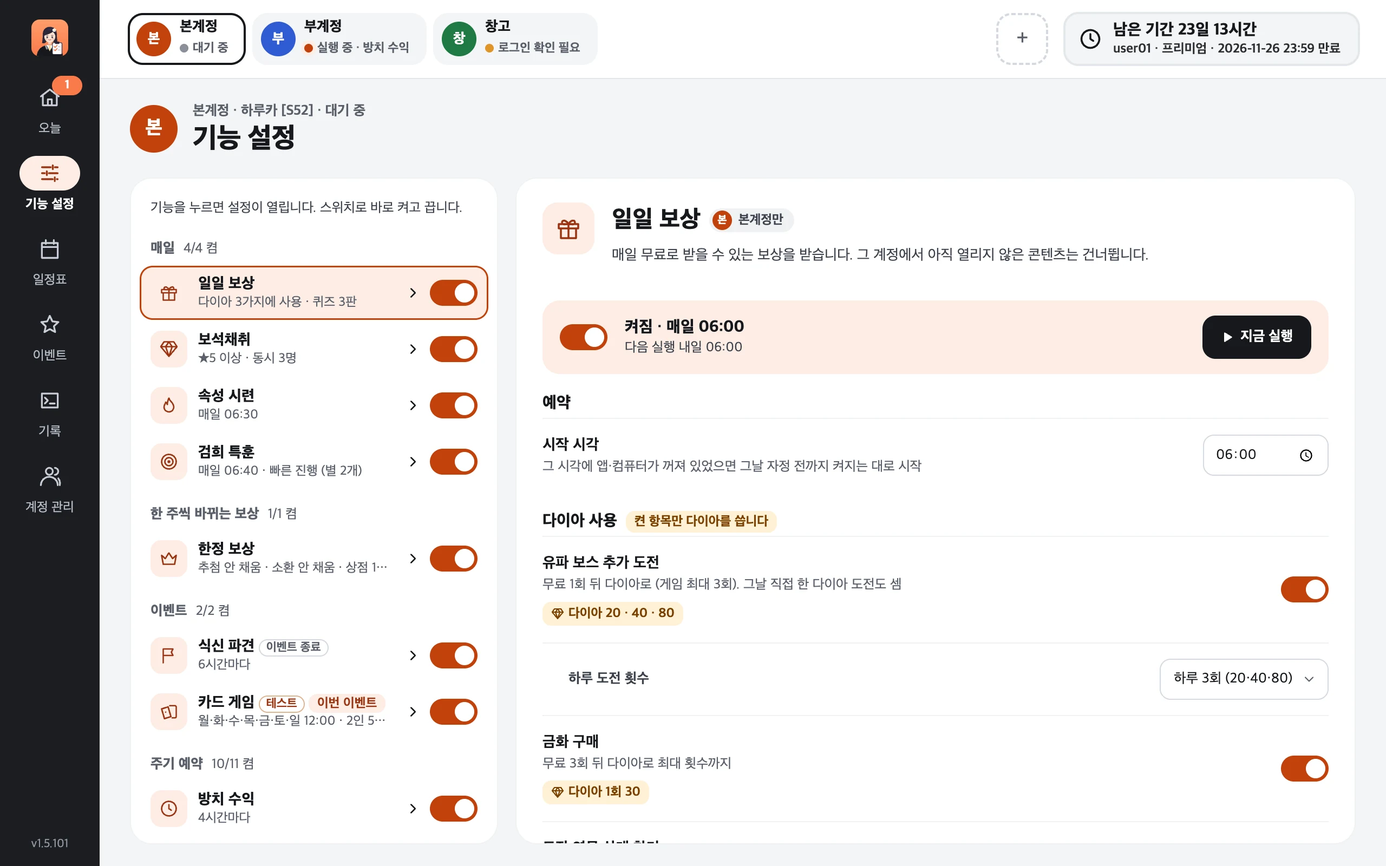
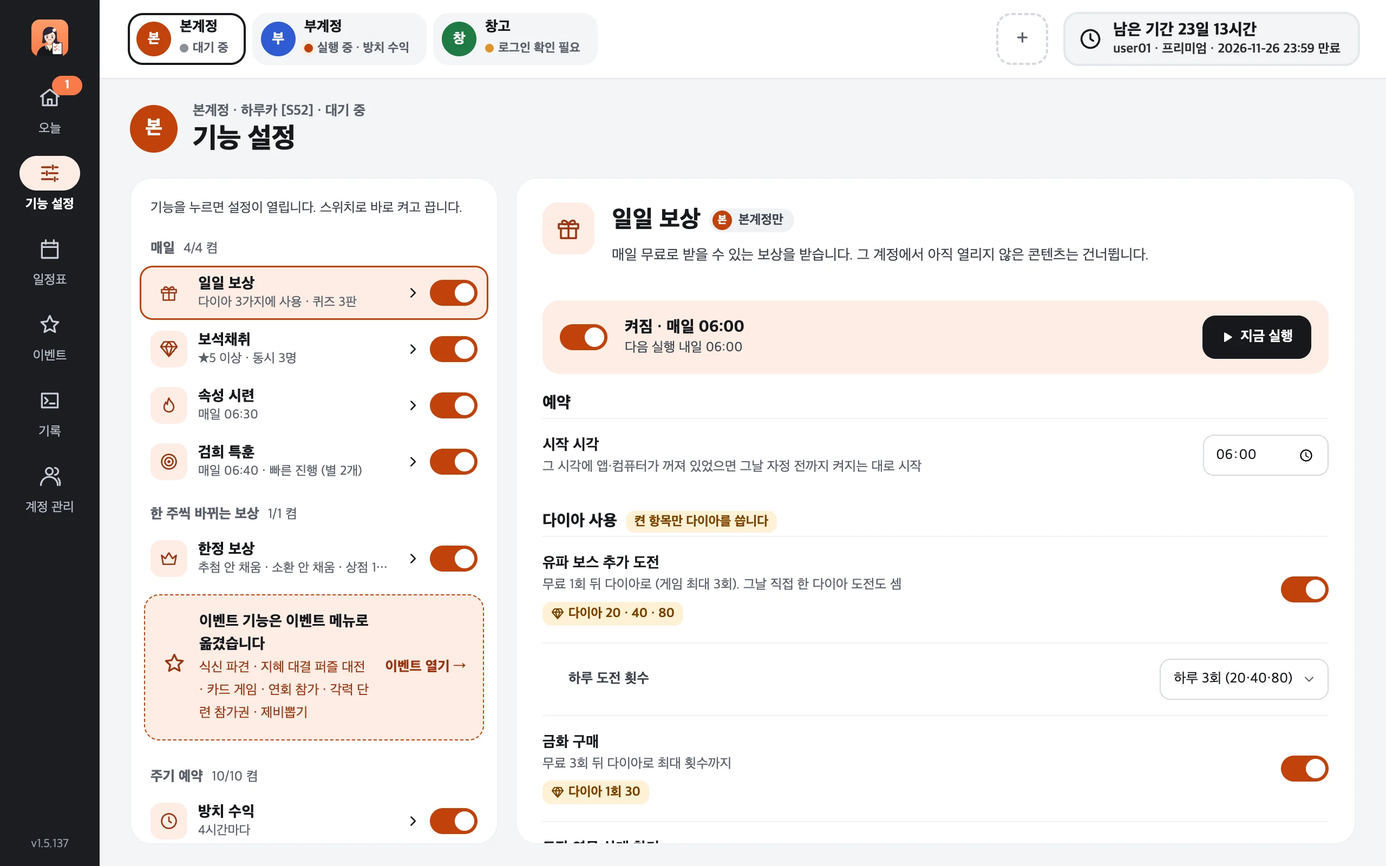
v1.5.137 홈페이지: 이벤트 메뉴 새 구성(2주 일정·이번 주/다음 주/지난 이벤트·이벤트 카드·요란 비서가 하는 일·모든 이벤트 공통) 설명, 이벤트 기능(식신 파견·지혜 대결 퍼즐 대전·카드 게임·연회 참가·각력 단련 참가권)은 이벤트 메뉴에서 켬, 기능 안내 이벤트 절 새로, 탑 하루 3번 지면 쉼·퍼즐 주기 예약 끝에도, 이벤트·기능 설정 화면과 이벤트 기능·일일 보상 설정 이미지 다시 찍음
Claude-Session: https://claude.ai/code/session_01KmZacAeoiGxHpjKwWGpkTY

Changed region(s): [[0.0938, 0.6875, 0.375, 0.9688], [0.3125, 0.9062, 0.3438, 0.9688]]

diff --git a/docs/features.html b/docs/features.html
@@ -44,6 +44,8 @@
     <a href="#tunhuo">한정 보상</a>
     <b>주기 예약</b>
     <a href="#periodic">주기 예약이란</a><a href="#guaji">방치 수익 · 오중탑 …</a>
+    <b>이벤트</b>
+    <a href="#events">이벤트 메뉴</a><a href="#bluesea">푸른 바다에 피는 꽃</a><a href="#feast">연회 참가 · 각력 단련</a><a href="#jjdms">식신 파견</a><a href="#pzjg">카드 게임</a><a href="#match3">지혜 대결 퍼즐 대전</a>
     <b>경기 · 요일 예약</b>
     <a href="#sdsl">흑암 강림</a><a href="#taTeam">팀 경기장</a><a href="#arenaKeep">도장 연무 목표 순위</a><a href="#myld">명장 쟁패전 편성</a><a href="#gvg">유파 쟁탈전</a><a href="#fz">학원 교류전</a><a href="#sjg">사검귀 습격</a><a href="#yc">학원 쟁패전</a>
     <b>공통</b>
@@ -63,12 +65,8 @@
           <ul>
             <li><b>매일 보상</b>: 출석, 친구 금화, VIP·일일 특전 무료 패키지, 패스 일일 보상, 유파 출석·보스, 무료 소환, 무료 패키지(유파 쟁탈전·학원 쟁패전·학원 교류전 경기 무료 패키지 포함, 교류전 것(다이아 20)은 v1.5.132부터), 임무 보상·활약도 상자, 메일 보상(게임의 [모두 받기]로 받고 메일은 지우지 않음, v1.5.128부터). 서포트(St.8001)가 열린 계정은 게임 서포트의 [일괄 실행]으로 합니다. 단 농장의 「가장 높은 품질의 검희를 파견해 육성」은 별을 보지 않고 위탁 횟수를 쓰므로 하지 않습니다 (위탁은 보석채취가 별 기준으로).</li>
             <li><b>일일 콘텐츠</b>: 강적 시련(하루 5회), 식신 난투 랭크전(승리 보상 5번을 다 받을 때까지, 도전권이 모자라면 켠 경우에만 다이아로 사서 이어 감), 도장 연무(하루 도전 횟수 설정, 기본 8회 = 무료 3 + 일일 임무 도전권 5), 퀴즈(1~3판), 오중탑, 속성 시련·검희 특훈 소탕, 환상 경계 구조, 흑암 강림 정예·전설 혼자 도전, 각력 단련, 도감, 유파 기술, 일일 임무 채우기(깃털·초대장).</li>
-            <li><b>이벤트</b>: 열린 이벤트의 무료 보상과 이벤트 아이템 사용(추첨·모집 횟수 제한은 이벤트 메뉴에서). 맨 끝에 한 번 더 — 그 뒤 퀴즈·도장 연무 등으로 끝난 이벤트 일일 임무 보상도 받습니다.</li>
+            <li><b>이벤트</b>: 열린 이벤트의 무료 보상과 이벤트 아이템 사용(추첨·모집 횟수 제한은 이벤트 메뉴에서). 이벤트마다 하는 일은 아래 <a href="#events">이벤트</a>를 보세요. 맨 끝에 한 번 더 — 그 뒤 퀴즈·도장 연무 등으로 끝난 이벤트 일일 임무 보상도 받습니다.</li>
           </ul>
-          <div class="set" id="ev-bluesea" data-s data-st="이번 이벤트: 푸른 바다에 피는 꽃" data-k="푸른바다에피는꽃 푸른바다 바다 꽃 이벤트 사카키바라 야스마사 증표 진주 풍경 제비뽑기 추첨권 인기투표 투표 협상협력 패스 미니게임 척안의신부 호소카와 끝난이벤트"><b>이번 이벤트: 푸른 바다에 피는 꽃 (11/13~11/20, v1.5.134부터)</b>로그인 보상, 메뉴마다 매일 무료 패키지 4종(추첨권·사카키바라 야스마사의 증표·일반 진주·제비뽑기 티켓), 임무, 협상 협력 임무, 인기 투표(진영은 늘 왼쪽 빨강) 임무·단계 보상, 패스 무료 단계·상단 Pt·추가 보상, 추첨·모집·제비뽑기 횟수 보상, 미니게임 별 보상을 받습니다. <a href="guide.html#events">이벤트 아이템 자동 사용</a>(이벤트 메뉴, 기본 켬)이 켜져 있으면 추첨권(추첨)·증표(모집)·진주(투표)·풍경(패스 [사용])도 씁니다(추첨·모집은 설정한 횟수까지). 제비뽑기는 아래 「이벤트 제비뽑기」를 켠 경우에만 뽑습니다(v1.5.135부터). 탑 도전·퍼즐 미니게임은 아래처럼 일일 보상 때 늘 합니다(v1.5.136부터). 교환소는 하지 않습니다. 남은 추첨권·제비뽑기 티켓은 이벤트가 끝나면 게임이 금화로 바꿔 줍니다. 척안의 신부·UR+ 검희 모집(호소카와 타다토시)은 11/13에 끝난 이벤트입니다.</div>
-          <div class="set" id="ev-bluesea-tower" data-s data-st="탑 도전 (푸른 바다에 피는 꽃)" data-k="탑도전 탑 전용편성 사카키바라 야스마사 장비 버프 층 푸른바다에피는꽃 이벤트"><b>탑 도전 (설정 없이 늘, v1.5.136부터)</b>「푸른 바다에 피는 꽃」의 탑에 도전합니다. 탑 전용 편성만 쓰고 메인·스토리·명장 편성은 그대로 둡니다(탑에서는 모든 검희가 같은 레벨). 편성이 비어 있으면 사카키바라 야스마사와 전투력이 높은 검희 4명으로 채우고, 직접 짠 5명 편성은 그대로 둡니다. 비어 있는 장비를 채우고 버프는 등급이 높은 것부터 골라, 이기면 다음 층에 도전합니다. 지면 그날은 쉬고 다음 날 다시 도전합니다. 다이아·아이템은 쓰지 않습니다.</div>
-          <div class="set" id="ev-bluesea-puzzle" data-s data-st="퍼즐 미니게임 (푸른 바다에 피는 꽃)" data-k="퍼즐 미니게임 퍼즐미니게임 별3개 별 단계 섞기 푸른바다에피는꽃 이벤트"><b>퍼즐 미니게임 (설정 없이 늘, v1.5.136부터)</b>그날까지 열린 단계를 앞에서부터 화면에서 실제로 풀고, 별 3개가 될 때까지 다시 합니다(한 번 실행에 단계당 4판, 별 0개면 8판까지). 별 0개로 끝나면 다음 단계가 열리지 않아 거기서 멈춥니다. 섞기 아이템·다이아는 쓰지 않습니다.</div>
-          <div class="set" id="ev-bluesea-draw" data-s data-st="이벤트 제비뽑기 (푸른 바다에 피는 꽃)" data-k="제비뽑기 이벤트제비뽑기 제비뽑기티켓 뽑을상품 최종보상 모두구매 법진 선택상자 깃발 곡옥 식신 만능조각 푸른바다에피는꽃"><b>이벤트 제비뽑기 (기본 꺼짐, v1.5.135부터)</b>「푸른 바다에 피는 꽃」의 제비뽑기를 제비뽑기 티켓으로 뽑습니다. 이벤트 메뉴 → 이벤트 설정의 「이벤트 제비뽑기」를 켜야 하고(써 오던 계정도 꺼져 있음), 「이벤트 아이템 자동으로 사용」도 켜져 있어야 합니다. 「제비뽑기 횟수」는 비우면 가진 티켓을 모두, 숫자를 넣으면 하루 그 횟수까지 뽑습니다. 「뽑을 상품」은 UR 법진 선택 상자(기본)·Lv.5 깃발 선택 상자·Lv.5 곡옥 선택 상자·UR 식신 선택 상자(1번에 티켓 2장)·대형 아이템 선택 상자 ×2·UR 검희 만능 조각 ×80(1번에 티켓 1장) 중에서 고릅니다. 상자는 서버 사람들이 같이 쓰고 상품마다 상자 30개에 최종 보상이 1개씩 있습니다. 요란 비서는 고른 상품에서 최종 보상이 남은 상자 중 가장 적게 남은 상자에서 뽑고, 티켓이 그 상자를 모두 살 만큼 있으면 「모두 구매」로 최종 보상을 확실히 받습니다. 받았거나 그 상품에 최종 보상이 남은 상자가 없으면 다음 상품으로 넘어갑니다. 설정에는 상품마다 「최종 보상까지 필요한 티켓」 수와 가진 티켓 수가 보입니다(일일 보상이 돌 때마다 바뀜). 티켓을 다이아로 사거나 유료 패키지를 사지 않습니다.</div>
           <div class="set"><b>다이아를 쓰는 항목 (켤 때만)</b>유파 보스 추가 도전(하루 1~3회) · 금화 구매 · 도장 연무 상대 찾기 · 식신 난투 랭크전 도전권(1장 100, 하루 최대 1~10장, 기본 5장 · v1.5.121부터) · 일일 상점(무혼 결정 1회, 또는 게임 자동 구매 + 상점 갱신 횟수)</div>
           <div class="set"><b>메일 지우기 (기본 끔)</b>켜면 메일 보상을 받은 뒤 받지 않은 보상이 하나도 없을 때만 게임의 [모두 삭제]로 메일을 지웁니다(읽지 않은 공지처럼 보상이 없는 새 메일은 남음). v1.5.128부터 기본이 끔이라 써 오던 계정도 이제 메일을 지우지 않습니다. 예전처럼 지우려면 기능 설정 → 일일 보상 → 메일 → 「메일 지우기」를 켜세요. 메일함이 많이 쌓이면 게임에서 메일함을 열 때 느려질 수 있습니다.</div>
         </div>
@@ -151,11 +149,94 @@
         <div class="mini" id="danxia"><div class="feat-h"><i data-i="bowl"></i><div><h3>자양 수프</h3><div class="when">8시간마다</div></div></div><p>자양 수프를 다시 씁니다(효과는 최대 8시간). 자양 특권 카드가 있는 계정은 쓰지 않습니다.</p><button class="see" type="button" data-zoom="img/panel-danxia.webp" data-alt="자양 수프 설정">설정 화면 보기 →</button></div>
         <div class="mini" id="mining"><div class="feat-h"><i data-i="pick"></i><div><h3>채굴</h3><div class="when">2~12시간마다 (기본 8시간)</div></div></div><p>곡옥의 [채굴]에서 최대 배속 자동 채굴(이동 우선)로 삽을 모두 씁니다. 광맥 특권이 없으면 같은 방식으로 한 칸씩 팝니다. 곡옥이 열리지 않은 계정은 건너뜁니다.</p><button class="see" type="button" data-zoom="img/panel-mining.webp" data-alt="채굴 설정">설정 화면 보기 →</button></div>
         <div class="mini" id="hbGet"><div class="feat-h"><i data-i="pouchIn"></i><div><h3>복주머니 받기 · 뿌리기</h3><div class="when">각각 1~12시간마다 (기본 3시간)</div></div></div><p>채팅 → 복주머니의 [공유 목록]에 있는 월드·유파 복주머니를 받고, 업적으로 생긴 내 복주머니를 뿌립니다(뿌린 사람도 한 몫).</p><button class="see" type="button" data-zoom="img/panel-hbGet.webp" data-alt="복주머니 받기 설정">설정 화면 보기 →</button></div>
-        <div class="mini" id="feast"><div class="feat-h"><i data-i="cup"></i><div><h3>연회 참가</h3><div class="when">켰을 때 · 하루 1~10회 (기본 끔)</div></div></div><p>이벤트 연회에 손님으로 참가해 다이아·교환 코인을 받고, 참가한 연회가 끝나는 대로 다음 연회에 들어갑니다. 기다리는 동안 채팅의 협상 협력 요청도 돕습니다.</p><button class="see" type="button" data-zoom="img/panel-feast.webp" data-alt="연회 참가 설정">설정 화면 보기 →</button></div>
         <div class="mini" id="jingcai"><div class="feat-h"><i data-i="trend"></i><div><h3>예측 · BET</h3><div class="when">예측·BET 기간이 열릴 때마다</div></div></div><p>명장 쟁패전·팀 경기장 경기마다 응원이 더 많은 쪽으로 무료 예측. <b>BET</b>를 켜면 8강 중 전투력이 가장 높은 선수·팀에게 다이아 300으로 주 1번씩. 다른 기능이 돌고 있어도 그 사이에 끼워서 해 30분짜리 예측 기간을 놓치지 않습니다.</p><button class="see" type="button" data-zoom="img/panel-jingcai.webp" data-alt="예측·BET 설정">설정 화면 보기 →</button></div>
         <div class="mini" id="wzsj"><div class="feat-h"><i data-i="hammer"></i><div><h3>공방</h3><div class="when">4~8시간마다 (기본 8시간)</div></div></div><p>트루 쉐도우 공방의 상자를 열고 작업을 다시 시작합니다. 공방 작업은 8시간 뒤 멈추는데, 8시간이 되기 전에 다시 시작해도 만들던 상자는 이어서 만들어집니다. 그래서 <b>다시 시작하는 간격</b>을 짧게 고르면 예약이 늦어져도 공방이 쉬는 틈이 없습니다(v1.5.126부터).</p><button class="see" type="button" data-zoom="img/panel-wzsj.webp" data-alt="공방 설정">설정 화면 보기 →</button></div>
         <div class="mini" id="ghz"><div class="feat-h"><i data-i="flag"></i><div><h3>유파 예선 신청</h3><div class="when">수·목·금 08:05</div></div></div><p>유파 예선에 개인 참가 신청을 합니다(수~금 8:00~19:30에만 신청 가능). 유파가 그 주에 참가하지 않았으면 건너뜁니다.</p><button class="see" type="button" data-zoom="img/panel-ghz.webp" data-alt="유파 예선 신청 설정">설정 화면 보기 →</button></div>
       </div>
+    </section>
+
+    <section class="chap" id="events" data-k="이벤트메뉴 이벤트 2주일정 이번주 다음주 지난이벤트 이벤트카드 요란비서가하는일 모든이벤트공통 새이벤트">
+      <p class="kicker">이벤트</p>
+      <h2>이벤트는 이벤트 메뉴에서 한눈에</h2>
+      <article class="feat" id="evmenu">
+        <div>
+          <div class="feat-h"><i data-i="star"></i><div><h3>이벤트 메뉴</h3><div class="when">왼쪽 메뉴 → 이벤트 (v1.5.137부터 새 구성)</div></div></div>
+          <p>열린 이벤트와 요란 비서가 그 이벤트에서 하는 일을 보고, 이벤트 기능을 켜고 설정하는 곳입니다.</p>
+          <ul>
+            <li><b>요약·2주 일정</b>: 맨 위에 진행 중·곧 끝남·새로 열림·확인 필요 개수, 그 아래 이번 주(월~일)와 다음 주에 이벤트마다 막대를 그립니다. 새로 열림 파랑·곧 끝남 주황·진행 중 초록·예정 점선·종료 회색이고, 주황 선이 지금입니다.</li>
+            <li><b>이번 주 / 다음 주 / 지난 이벤트</b> 탭: 이벤트는 종류마다 늘 같은 이름의 카드 하나로 보입니다(주간 카드처럼 여러 개면 개수·가격). 카드에는 상태 라벨·남은 시간·기간·진행 막대가 있고, 펼치면 <b>요란 비서가 하는 일</b>(무료 보상 / 미니게임·도전 / 아이템 사용 / 뽑기)과 그 이벤트의 설정(제비뽑기·예약 기능)이 나옵니다. 무료 보상과 미니게임·도전은 자동, 아이템 사용은 공통 설정대로, 뽑기는 켠 경우에만 합니다.</li>
+            <li><b>다음 주</b>는 확실한 것만 보여 줍니다: 이어지는 이벤트, 7일마다 열리는 주간 카드·연속 구매의 새 회차 예상, 한정 보상 다음 차례, 이벤트가 바뀌는 시각. 게임은 새 이벤트를 미리 알려 주지 않으므로, 새 이벤트가 열리면 요란 비서가 그날 확인해 넣습니다.</li>
+            <li><b>지난 이벤트</b>는 끝난 지 4주 안의 이벤트와 쉬는 예약 기능입니다(v1.5.137부터 기록). 같은 이벤트가 다시 열리면 남겨 둔 설정으로 다시 합니다.</li>
+            <li>오른쪽 <b>모든 이벤트 공통</b>: 이벤트 아이템 자동 사용(기본 켬)·추첨·모집 횟수와, 새 이벤트가 열리면 하는 규칙(무료 보상·미니게임·도전은 바로 자동, 이벤트 아이템은 공통 설정대로, 뽑기는 꺼진 채로 추가, 다이아·유료 패키지·교환소는 쓰지 않음). 그 아래 <b>한정 보상</b>의 이번 주·다음 주 차례(쇼핑 → 추첨 목표 → 소환 대상).</li>
+          </ul>
+          <div class="set"><b>이벤트 메뉴로 옮긴 기능 (v1.5.137부터)</b>식신 파견·지혜 대결 퍼즐 대전·카드 게임·연회 참가는 그 이벤트 카드의 예약 기능 줄에서, 각력 단련 참가권 모두 사용은 각력 단련 카드에서 켭니다. 기능 설정 목록에는 「이벤트 기능은 이벤트 메뉴로 옮겼습니다 → 이벤트 열기」 칸이 있고, 연회 참가는 주기 예약에서 빠졌습니다. 설정값은 그대로입니다.</div>
+        </div>
+        <figure class="shot"><img loading="lazy" src="img/screen-events.webp" width="2560" height="1600" alt="이벤트 메뉴 — 요약과 2주 일정"></figure>
+      </article>
+
+      <article class="feat" id="bluesea" style="grid-template-columns:minmax(0,1fr)" data-k="푸른바다에피는꽃 푸른바다 탑도전 퍼즐 제비뽑기">
+        <div>
+          <div class="feat-h"><i data-i="gift"></i><div><h3>푸른 바다에 피는 꽃</h3><div class="when">11/13~11/20 · 일일 보상 때 (퍼즐은 주기 예약 끝에도)</div></div></div>
+          <div class="set" id="ev-bluesea" data-s data-st="푸른 바다에 피는 꽃 받는 보상" data-k="푸른바다에피는꽃 푸른바다 바다 꽃 이벤트 사카키바라 야스마사 증표 진주 풍경 제비뽑기 추첨권 인기투표 투표 협상협력 패스 미니게임 척안의신부 호소카와 끝난이벤트"><b>받는 보상 (v1.5.134부터)</b>로그인 보상, 메뉴마다 매일 무료 패키지 4종(추첨권·사카키바라 야스마사의 증표·일반 진주·제비뽑기 티켓), 임무, 협상 협력 임무, 인기 투표(진영은 늘 왼쪽 빨강) 임무·단계 보상, 패스 무료 단계·상단 Pt·추가 보상, 추첨·모집·제비뽑기 횟수 보상, 미니게임 별 보상을 받습니다. <a href="guide.html#events">이벤트 아이템 자동 사용</a>(이벤트 메뉴, 기본 켬)이 켜져 있으면 추첨권(추첨)·증표(모집)·진주(투표)·풍경(패스 [사용])도 씁니다(추첨·모집은 설정한 횟수까지). 제비뽑기는 아래 「제비뽑기」를 켠 경우에만 뽑습니다(v1.5.135부터). 탑 도전·퍼즐 미니게임은 아래처럼 늘 합니다(v1.5.136부터). 교환소는 하지 않습니다. 남은 추첨권·제비뽑기 티켓은 이벤트가 끝나면 게임이 금화로 바꿔 줍니다. 척안의 신부·UR+ 검희 모집(호소카와 타다토시)은 11/13에 끝난 이벤트입니다.</div>
+          <div class="set" id="ev-bluesea-tower" data-s data-st="탑 도전 (푸른 바다에 피는 꽃)" data-k="탑도전 탑 전용편성 사카키바라 야스마사 장비 버프 층 푸른바다에피는꽃 이벤트"><b>탑 도전 (설정 없이 늘, v1.5.136부터)</b>일일 보상 때 탑에 도전합니다. 탑 전용 편성만 쓰고 메인·스토리·명장 편성은 그대로 둡니다(탑에서는 모든 검희가 같은 레벨). 편성이 비어 있으면 사카키바라 야스마사와 전투력이 높은 검희 4명으로 채우고, 직접 짠 5명 편성은 그대로 둡니다. 비어 있는 장비를 채우고 버프는 등급이 높은 것부터 골라, 이기면 다음 층에 도전합니다. 지면 다시 도전하고, 하루 3번 지면 그날은 쉽니다(v1.5.137부터). 다이아·아이템은 쓰지 않습니다.</div>
+          <div class="set" id="ev-bluesea-puzzle" data-s data-st="퍼즐 미니게임 (푸른 바다에 피는 꽃)" data-k="퍼즐 미니게임 퍼즐미니게임 별3개 별 단계 섞기 푸른바다에피는꽃 이벤트"><b>퍼즐 미니게임 (설정 없이 늘, v1.5.136부터)</b>그날까지 열린 단계를 앞에서부터 화면에서 실제로 풀고, 별 3개가 될 때까지 다시 합니다(한 번 실행에 단계당 4판, 별 0개면 8판, 하루 단계당 12판까지). 일일 보상뿐 아니라 주기 예약이 끝날 때마다 새로 열린 단계가 있는지 보고 풉니다(다음 경기 10분 전까지만, v1.5.137부터). 그래서 업데이트 뒤 첫 주기 예약에서 밀린 단계를 따라잡습니다. 별 0개로 끝나면 다음 단계가 열리지 않아 거기서 멈춥니다. 섞기 아이템·다이아는 쓰지 않습니다.</div>
+          <div class="set" id="ev-bluesea-draw" data-s data-st="제비뽑기 (푸른 바다에 피는 꽃)" data-k="제비뽑기 이벤트제비뽑기 제비뽑기티켓 뽑을상품 최종보상 모두구매 법진 선택상자 깃발 곡옥 식신 만능조각 푸른바다에피는꽃"><b>제비뽑기 (기본 꺼짐, v1.5.135부터)</b>제비뽑기 티켓으로 제비뽑기를 뽑습니다. 이벤트 메뉴 → 푸른 바다에 피는 꽃 카드의 「제비뽑기」를 켜야 하고(써 오던 계정도 꺼져 있음), 오른쪽 「이벤트 아이템 자동 사용」도 켜져 있어야 합니다. 「뽑는 방식」은 자동(가진 티켓을 모두) 또는 하루 횟수 정하기입니다. 「뽑을 상품」은 UR 법진 선택 상자(기본)·Lv.5 깃발 선택 상자·Lv.5 곡옥 선택 상자·UR 식신 선택 상자(1번에 티켓 2장)·대형 아이템 선택 상자 ×2·UR 검희 만능 조각 ×80(1번에 티켓 1장) 중에서 고릅니다. 상자는 서버 사람들이 같이 쓰고 상품마다 상자 30개에 최종 보상이 1개씩 있습니다. 요란 비서는 고른 상품에서 최종 보상이 남은 상자 중 가장 적게 남은 상자에서 뽑고, 티켓이 그 상자를 모두 살 만큼 있으면 「모두 구매」로 최종 보상을 확실히 받습니다. 받았거나 그 상품에 최종 보상이 남은 상자가 없으면 다음 상품으로 넘어갑니다. 상품 카드마다 한 번에 드는 장수와 「최종 보상까지 필요한 티켓」 수, 가진 티켓 수가 보입니다(일일 보상·주기 예약이 돌 때마다 바뀜). 티켓을 다이아로 사거나 유료 패키지를 사지 않습니다.</div>
+        </div>
+      </article>
+
+      <div class="mini-grid" style="margin-bottom:8px">
+        <div class="mini" id="feast"><div class="feat-h"><i data-i="cup"></i><div><h3>연회 참가</h3><div class="when">켰을 때 · 하루 1~10회 (기본 끔)</div></div></div><p>이벤트 연회에 손님으로 참가해 다이아·교환 코인을 받고, 참가한 연회가 끝나는 대로 다음 연회에 들어갑니다. 기다리는 동안 채팅의 협상 협력 요청도 돕습니다.</p><p>연회가 열리는 이벤트(할로윈 카니발 등)의 카드에서 켭니다. 그 이벤트가 끝났으면 「지난 이벤트」 탭에 있습니다(v1.5.137 전에는 주기 예약).</p><button class="see" type="button" data-zoom="img/panel-feast.webp" data-alt="연회 참가 설정">설정 화면 보기 →</button></div>
+        <div class="mini" id="kanjia-all" data-s data-st="각력 단련 참가권 모두 사용" data-k="각력단련 각력 참가권 특별훈련 입장권 모두사용"><div class="feat-h"><i data-i="flag"></i><div><h3>각력 단련 참가권 모두 사용</h3><div class="when">켰을 때 · 일일 보상 맨 끝 (기본 끔)</div></div></div><p>각력 단련 하루 5회(임무 분량)는 일일 보상이 늘 합니다. 이 칸을 켜면 그 뒤 남은 특별 훈련 입장권을 일일 보상 맨 끝에 모두 써서 참가합니다. 한 판에 4~5분이라 장수만큼 오래 걸립니다.</p><p>각력 단련 카드에서 켭니다(v1.5.137 전에는 기능 설정 → 일일 보상).</p></div>
+      </div>
+
+      <article class="feat" id="jjdms">
+        <div>
+          <div class="feat-h"><i data-i="flag"></i><div><h3>식신 파견</h3><div class="when">켜면 이벤트 기간(11/7~11/14) 동안 6시간마다 · 이벤트 메뉴 → 식신 파견 카드</div></div></div>
+          <p>이벤트 「식신 파견」의 본게임 <b>「진격의 식신」</b>을 합니다. 체력(2시간에 1개, 최대 10개)이 있는 만큼 판의 블록을 <b>탭</b>(레벨 업 → 같은 레벨 3개가 이어지면 융합)하거나 <b>군단으로 끌어</b> 걸음을 다 쓰고 [진군]합니다. 재화는 쓰지 않습니다.</p>
+          <ul>
+            <li>걸음마다 판을 미리 계산해, 융합 연쇄로 얻는 전투력이 가장 큰 수(다음 걸음까지 봄)를 고릅니다.</li>
+            <li>진군 결과를 닫고 체력이 떨어질 때까지 되풀이한 뒤, 식신 도감 보상과 파견 임무·패스 보상을 받습니다.</li>
+            <li><b>영부 자동 사용</b>(기본 켬): 임무로 받은 영부로 스킬을 켭니다 — 증원·고무 중 전투력이 더 오르는 것 → 동원(걸음 +2) → 품종 개량 → 학습 순. 켜져 있는 스킬은 다시 켜지 않습니다.</li>
+            <li>교환소·유료 패키지는 쓰지 않습니다.</li>
+          </ul>
+          <div class="set"><b>켜는 곳 (v1.5.137부터)</b>이벤트 메뉴 → 식신 파견 카드의 예약 기능 줄에서 켜고 끕니다(전에는 기능 설정 → 식신 파견). <kbd>자세한 설정</kbd>을 누르면 이 설정 화면이 열리고, 맨 위 「‹ 이벤트 메뉴로」로 돌아옵니다. [지금 실행]은 그 설정 화면에 있습니다. 설정값은 옮기기 전 그대로입니다.</div>
+        </div>
+        <figure class="shot panel"><img loading="lazy" src="img/panel-jjdms.webp" alt="식신 파견 설정 화면"></figure>
+      </article>
+
+      <article class="feat" id="pzjg">
+        <div>
+          <div class="feat-h"><i data-i="cards"></i><div><h3>카드 게임</h3><div class="when">켜면 고른 요일·시각 (기본 매일 12:00) · 이벤트 메뉴 → 카드 게임 카드</div></div></div>
+          <div class="tags"><span class="chip warn">테스트</span><span class="chip ok">일반 등급부터</span></div>
+          <p>이벤트 「카드 게임」(다우트)이 열려 있을 때 랭크전을 합니다. 실제 플레이어와 매칭되고, 요란 비서가 남은 카드를 세어 <b>특수 카드를 내거나 다우트</b>합니다. 판 초반에 쓸모없는 카드를 먼저 처분하고 특수 카드는 아끼며, 다우트는 확실할 때만 겁니다.</p>
+          <ul>
+            <li><b>2인 랭크전</b>을 설정한 판 수만큼(기본 5판 — 매일 무료 티켓 5장), 이어서 <b>4인 랭크전</b>(무료)을 그날 교환 코인 한도 100을 다 받을 때까지 합니다.</li>
+            <li>무료 티켓·임무(카드 게임 N회 클리어)·패스 무료 단계는 대전 전후와 일일 보상 때 받습니다.</li>
+            <li>진 판은 랭크 Pt가 이긴 사람에게 넘어갑니다(기본 25). 매칭은 3분씩 세 번까지 기다립니다.</li>
+          </ul>
+          <div class="set"><b>켜는 곳 (v1.5.137부터)</b>이벤트 메뉴 → 카드 게임 카드의 예약 기능 줄에서 켜고 끕니다(전에는 기능 설정 → 카드 게임). <kbd>자세한 설정</kbd>을 누르면 이 설정 화면이 열리고, 맨 위 「‹ 이벤트 메뉴로」로 돌아옵니다. [지금 실행]은 그 설정 화면에 있습니다. 설정값은 옮기기 전 그대로입니다.</div>
+        </div>
+        <figure class="shot panel"><img loading="lazy" src="img/panel-pzjg.webp" alt="카드 게임 설정 화면"></figure>
+      </article>
+
+      <article class="feat" id="match3">
+        <div>
+          <div class="feat-h"><i data-i="puzzle"></i><div><h3>지혜 대결 퍼즐 대전</h3><div class="when">이벤트 기간(11/11~11/14) 매일 고른 시각 (기본 15:10, 기본 켬) · 이벤트 메뉴 → 지혜 대결 퍼즐 카드</div></div></div>
+          <div class="tags"><span class="chip warn">테스트</span><span class="chip ok">일반 등급부터</span><span class="chip dia">도전권 1장 10다이아</span></div>
+          <div class="callout warn"><span data-i="alert"></span><div><b>기본으로 켜져 있습니다(v1.5.120부터).</b> 하루 최대 20판이고 도전권이 모자라면 다이아로 사므로 <b>다이아를 하루 최대 200까지</b> 씁니다. 원치 않으면 이벤트 메뉴 → 지혜 대결 퍼즐 카드의 「지혜 대결 퍼즐 대전」 스위치로 끄거나, 「도전권이 모자라면 다이아로 사기」를 끄세요(가진 도전권만큼만). v1.5.119에서 건드리지 않은 설정(꺼짐·10판)은 업데이트 때 켜짐·20판으로 바뀝니다.</div></div>
+          <p>이벤트 「지혜 대결 퍼즐」의 <b>랭크 대전</b>을 합니다. 7×7 판에서 이웃한 두 보석을 바꿔 같은 색 3개 이상을 지우는 대전으로, 실제 플레이어와 매칭됩니다(처음 5판과 연패 뒤에는 AI 상대). 먼저 무료 패키지·끝난 임무·패스 보상을 받고, 하루 승리 목표만큼 이길 때까지 대전한 뒤 임무·랭크 Pt·패스 보상을 받습니다. 무료 보상은 이 기능을 켜지 않아도 일일 보상이 받습니다.</p>
+          <ul>
+            <li><b>하루 승리 목표</b>(기본 5번): 그날 이긴 판(직접 한 것 포함)이 이 수가 될 때까지 대전합니다. 5번 이상이면 임무 「매일 대전에 N회 참가」(5판)도 채워집니다.</li>
+            <li><b>하루 최대 대전 횟수</b>(기본 20판): 목표만큼 이기지 못해도 그날 한 판이 이 수가 되면 멈춥니다.</li>
+            <li><b>도전권이 모자라면 다이아로 사기</b>(기본 켬): 한 판에 지혜 대결 도전권 1장이 들고, 모자란 만큼만 1장씩 10다이아로 삽니다(기본 설정이면 하루 최대 200다이아). 끄면 가진 도전권만큼만 합니다.</li>
+            <li>내 차례마다 판을 읽어 가장 많이 지우는 두 보석을 바꿉니다(특수 보석을 터뜨리거나 만드는 수를 더 높게 봄). <b>영부</b>(검희 스킬)가 차면 수를 두기 전에 쓰고, 공용 스킬(새로 고침·망치)은 쓰지 않습니다.</li>
+            <li>지면 랭크 Pt가 줄어듭니다(이기면 +30, 지면 -15, 0 아래로는 안 내려감). 랭크 Pt 보상은 이겨야 받습니다. 매칭이 2분 안에 안 잡히면 취소하고 두 번까지 다시 합니다.</li>
+            <li>경기(유파 쟁탈전 등) 시간이 되면 멈췄다가 경기 뒤 이어서 합니다. 그 시각에 앱·컴퓨터가 꺼져 있었으면 그날 자정 전까지 켜지는 대로 시작합니다.</li>
+          </ul>
+          <div class="set"><b>켜는 곳 (v1.5.137부터)</b>이벤트 메뉴 → 지혜 대결 퍼즐 카드의 예약 기능 줄에서 켜고 끕니다(전에는 기능 설정 → 지혜 대결 퍼즐 대전). <kbd>자세한 설정</kbd>을 누르면 이 설정 화면이 열리고, 맨 위 「‹ 이벤트 메뉴로」로 돌아옵니다. [지금 실행]은 그 설정 화면에 있습니다. 설정값은 옮기기 전 그대로입니다.</div>
+        </div>
+        <figure class="shot panel"><img loading="lazy" src="img/panel-match3.webp" alt="지혜 대결 퍼즐 대전 설정 화면"></figure>
+      </article>
     </section>
 
     <section class="chap">
@@ -266,52 +347,6 @@
           <div class="set"><b>설정</b>경기별 편성 시각(경기마다 그 기간 안에서 10분 단위·잠기기 10분 전까지, 또는 「안 함」 = 앞 경기 편성을 그대로 씀) · 편성 방식(자동/수동) · 수동 편성·부적·무기 · 미리 점검</div>
         </div>
         <figure class="shot panel"><img loading="lazy" src="img/panel-myld.webp" alt="명장 쟁패전 편성 설정 화면"></figure>
-      </article>
-
-      <article class="feat" id="jjdms">
-        <div>
-          <div class="feat-h"><i data-i="flag"></i><div><h3>식신 파견</h3><div class="when">켜면 이벤트 기간(11/7~11/14) 동안 6시간마다 · [지금 실행]</div></div></div>
-          <p>이벤트 「식신 파견」의 본게임 <b>「진격의 식신」</b>을 합니다. 체력(2시간에 1개, 최대 10개)이 있는 만큼 판의 블록을 <b>탭</b>(레벨 업 → 같은 레벨 3개가 이어지면 융합)하거나 <b>군단으로 끌어</b> 걸음을 다 쓰고 [진군]합니다. 재화는 쓰지 않습니다.</p>
-          <ul>
-            <li>걸음마다 판을 미리 계산해, 융합 연쇄로 얻는 전투력이 가장 큰 수(다음 걸음까지 봄)를 고릅니다.</li>
-            <li>진군 결과를 닫고 체력이 떨어질 때까지 되풀이한 뒤, 식신 도감 보상과 파견 임무·패스 보상을 받습니다.</li>
-            <li><b>영부 자동 사용</b>(기본 켬): 임무로 받은 영부로 스킬을 켭니다 — 증원·고무 중 전투력이 더 오르는 것 → 동원(걸음 +2) → 품종 개량 → 학습 순. 켜져 있는 스킬은 다시 켜지 않습니다.</li>
-            <li>교환소·유료 패키지는 쓰지 않습니다.</li>
-          </ul>
-        </div>
-        <figure class="shot panel"><img loading="lazy" src="img/panel-jjdms.webp" alt="식신 파견 설정 화면"></figure>
-      </article>
-
-      <article class="feat" id="pzjg">
-        <div>
-          <div class="feat-h"><i data-i="cards"></i><div><h3>카드 게임</h3><div class="when">켜면 고른 요일·시각 (기본 매일 12:00) · [지금 실행]</div></div></div>
-          <div class="tags"><span class="chip warn">테스트</span><span class="chip ok">일반 등급부터</span></div>
-          <p>이벤트 「카드 게임」(다우트)이 열려 있을 때 랭크전을 합니다. 실제 플레이어와 매칭되고, 요란 비서가 남은 카드를 세어 <b>특수 카드를 내거나 다우트</b>합니다. 판 초반에 쓸모없는 카드를 먼저 처분하고 특수 카드는 아끼며, 다우트는 확실할 때만 겁니다.</p>
-          <ul>
-            <li><b>2인 랭크전</b>을 설정한 판 수만큼(기본 5판 — 매일 무료 티켓 5장), 이어서 <b>4인 랭크전</b>(무료)을 그날 교환 코인 한도 100을 다 받을 때까지 합니다.</li>
-            <li>무료 티켓·임무(카드 게임 N회 클리어)·패스 무료 단계는 대전 전후와 일일 보상 때 받습니다.</li>
-            <li>진 판은 랭크 Pt가 이긴 사람에게 넘어갑니다(기본 25). 매칭은 3분씩 세 번까지 기다립니다.</li>
-          </ul>
-        </div>
-        <figure class="shot panel"><img loading="lazy" src="img/panel-pzjg.webp" alt="카드 게임 설정 화면"></figure>
-      </article>
-
-      <article class="feat" id="match3">
-        <div>
-          <div class="feat-h"><i data-i="puzzle"></i><div><h3>지혜 대결 퍼즐 대전</h3><div class="when">이벤트 기간(11/11~11/14) 매일 고른 시각 (기본 15:10, 기본 켬) · [지금 실행]</div></div></div>
-          <div class="tags"><span class="chip warn">테스트</span><span class="chip ok">일반 등급부터</span><span class="chip dia">도전권 1장 10다이아</span></div>
-          <div class="callout warn"><span data-i="alert"></span><div><b>기본으로 켜져 있습니다(v1.5.120부터).</b> 하루 최대 20판이고 도전권이 모자라면 다이아로 사므로 <b>다이아를 하루 최대 200까지</b> 씁니다. 원치 않으면 기능 설정 → 이벤트 → 지혜 대결 퍼즐 대전의 스위치로 끄거나, 「도전권이 모자라면 다이아로 사기」를 끄세요(가진 도전권만큼만). v1.5.119에서 건드리지 않은 설정(꺼짐·10판)은 업데이트 때 켜짐·20판으로 바뀝니다.</div></div>
-          <p>이벤트 「지혜 대결 퍼즐」의 <b>랭크 대전</b>을 합니다. 7×7 판에서 이웃한 두 보석을 바꿔 같은 색 3개 이상을 지우는 대전으로, 실제 플레이어와 매칭됩니다(처음 5판과 연패 뒤에는 AI 상대). 먼저 무료 패키지·끝난 임무·패스 보상을 받고, 하루 승리 목표만큼 이길 때까지 대전한 뒤 임무·랭크 Pt·패스 보상을 받습니다. 무료 보상은 이 기능을 켜지 않아도 일일 보상이 받습니다.</p>
-          <ul>
-            <li><b>하루 승리 목표</b>(기본 5번): 그날 이긴 판(직접 한 것 포함)이 이 수가 될 때까지 대전합니다. 5번 이상이면 임무 「매일 대전에 N회 참가」(5판)도 채워집니다.</li>
-            <li><b>하루 최대 대전 횟수</b>(기본 20판): 목표만큼 이기지 못해도 그날 한 판이 이 수가 되면 멈춥니다.</li>
-            <li><b>도전권이 모자라면 다이아로 사기</b>(기본 켬): 한 판에 지혜 대결 도전권 1장이 들고, 모자란 만큼만 1장씩 10다이아로 삽니다(기본 설정이면 하루 최대 200다이아). 끄면 가진 도전권만큼만 합니다.</li>
-            <li>내 차례마다 판을 읽어 가장 많이 지우는 두 보석을 바꿉니다(특수 보석을 터뜨리거나 만드는 수를 더 높게 봄). <b>영부</b>(검희 스킬)가 차면 수를 두기 전에 쓰고, 공용 스킬(새로 고침·망치)은 쓰지 않습니다.</li>
-            <li>지면 랭크 Pt가 줄어듭니다(이기면 +30, 지면 -15, 0 아래로는 안 내려감). 랭크 Pt 보상은 이겨야 받습니다. 매칭이 2분 안에 안 잡히면 취소하고 두 번까지 다시 합니다.</li>
-            <li>경기(유파 쟁탈전 등) 시간이 되면 멈췄다가 경기 뒤 이어서 합니다. 그 시각에 앱·컴퓨터가 꺼져 있었으면 그날 자정 전까지 켜지는 대로 시작합니다.</li>
-          </ul>
-        </div>
-        <figure class="shot panel"><img loading="lazy" src="img/panel-match3.webp" alt="지혜 대결 퍼즐 대전 설정 화면"></figure>
       </article>
 
       <article class="feat" id="gvg">

diff --git a/docs/guide.html b/docs/guide.html
@@ -212,7 +212,7 @@
 
     <section class="chap" id="features">
       <h2>기능 설정</h2>
-      <p>모든 기능이 왼쪽 목록에 묶음별로 있고, 누르면 오른쪽에 그 기능의 설정이 맨 위부터 열립니다. 목록과 설정은 따로 스크롤되고, 설정 위쪽의 기능 이름은 그 자리에 고정됩니다. 기능마다 하는 일은 <a href="features.html">기능 안내</a>를 보세요.</p>
+      <p>모든 기능이 왼쪽 목록에 묶음별로 있고, 누르면 오른쪽에 그 기능의 설정이 맨 위부터 열립니다. 이벤트 기능(식신 파견·지혜 대결 퍼즐 대전·카드 게임·연회 참가·각력 단련 참가권 모두 사용)은 v1.5.137부터 <a href="#events">이벤트 메뉴</a>의 이벤트 카드에서 켜고 설정하며, 목록에는 「이벤트 기능은 이벤트 메뉴로 옮겼습니다 → 이벤트 열기」 칸이 있습니다(설정값은 그대로). 목록과 설정은 따로 스크롤되고, 설정 위쪽의 기능 이름은 그 자리에 고정됩니다. 기능마다 하는 일은 <a href="features.html">기능 안내</a>를 보세요.</p>
       <figure class="shot" data-shot="screen-features" data-marks="list,panel,on,run" style="margin-top:20px"><img loading="lazy" src="img/screen-features.webp" width="2560" height="1600" alt="기능 설정 화면 — 번호로 영역 표시"></figure>
       <ul class="marks-list">
         <li><b>1</b><span><strong>기능 목록</strong> — 스위치로 바로 켜고 끕니다. 아래 줄은 지금 설정 요약.</span></li>
@@ -225,7 +225,8 @@
         <li><b>동작 보기</b>를 펼치면 그 기능이 하는 일을 순서대로 볼 수 있습니다.</li>
         <li>그 계정이 실행 중인 동안에는 실행 중인 기능의 설정을 바꿀 수 없습니다(예약 시각은 바꿀 수 있음).</li>
         <li>다이아를 쓰는 항목에는 <span class="chip dia">다이아</span> 표시가 붙어 있습니다.</li>
-        <li>이벤트에 묶인 기능(연회 참가·카드 게임·각력 단련 등)에는 그 이벤트가 열려 있으면 <span class="chip tint">이번 이벤트</span>, 끝났으면 <span class="chip">이벤트 종료</span>가 붙습니다. 끝난 기능은 켜 두어도 할 일이 없으면 그냥 넘어가고, 같은 이벤트가 다시 열리면 다시 합니다.</li>
+        <li>이벤트에 묶인 설정 줄에는 그 이벤트가 열려 있으면 <span class="chip tint">이번 이벤트</span>, 끝났으면 <span class="chip">이벤트 종료</span>가 붙습니다. 끝난 기능은 켜 두어도 할 일이 없으면 그냥 넘어가고, 같은 이벤트가 다시 열리면 다시 합니다.</li>
+        <li>이벤트 카드의 <kbd>자세한 설정</kbd>으로 연 이벤트 기능 설정은 맨 위 「‹ 이벤트 메뉴로」로 이벤트 메뉴에 돌아갑니다.</li>
       </ul>
     </section>
 
@@ -240,20 +241,32 @@
       </div>
     </section>
 
-    <section class="chap" id="events">
+    <section class="chap" id="events" data-k="이벤트메뉴 2주일정 이번주 다음주 지난이벤트 이벤트카드 요란비서가하는일 모든이벤트공통 새이벤트 예약기능 자세한설정">
       <h2>이벤트</h2>
-      <div class="two">
-        <div>
-          <p>지금 열린 이벤트(끝나는 순서 · 남은 시간)와 요란 비서가 그 무료 보상을 받는지 보여 줍니다. 일일 보상이나 주기 예약이 한 번 돈 뒤부터 나옵니다.</p>
+      <p>열린 이벤트와 요란 비서가 그 이벤트에서 하는 일을 보고, 이벤트 기능을 켜고 설정합니다(v1.5.137부터 새 구성). 일일 보상이나 주기 예약이 한 번 돈 뒤부터 나옵니다.</p>
+      <figure class="shot" style="margin-top:16px"><img loading="lazy" src="img/screen-events.webp" width="2560" height="1600" alt="이벤트 화면 — 요약과 2주 일정"></figure>
+      <ul style="margin-top:16px">
+        <li><b>맨 위 요약</b>: 진행 중 · 곧 끝남 · 새로 열림 · 확인 필요 개수.</li>
+        <li><b>2주 일정</b>: 이번 주(월~일)와 다음 주에 이벤트마다 막대를 그립니다. 새로 열림 파랑 · 곧 끝남 주황 · 진행 중 초록 · 예정 점선 · 종료 회색이고, 주황 세로선이 지금입니다.</li>
+        <li><b>이번 주 / 다음 주 / 지난 이벤트</b> 탭: 이벤트는 종류마다 늘 같은 이름의 카드 하나로 보입니다(주간 카드처럼 여러 개면 개수·가격). 카드에는 상태 라벨 · 남은 시간 · 기간 · 진행 막대가 있습니다.
           <ul>
-            <li><b>이벤트 아이템 자동 사용</b>: 추첨권·모집권 등 이벤트 아이템을 씁니다. 끄면 무료 보상만 받습니다.</li>
-            <li><b>이벤트 추첨·모집 횟수</b>: 이벤트마다 몇 회까지 뽑을지. 기본 0은 뽑지 않고, 비우면 아이템을 모두 씁니다. 이미 쓰던 계정은 설정 그대로입니다.</li>
-            <li><b>이벤트 제비뽑기</b>: 「푸른 바다에 피는 꽃」의 제비뽑기를 뽑습니다(기본 꺼짐, v1.5.135부터, 이벤트 아이템 자동 사용도 켜야 함). 제비뽑기 횟수·뽑을 상품은 <a href="features.html#ev-bluesea-draw">기능 안내</a>를 보세요.</li>
-            <li>요란 비서가 아직 모르는 새 종류의 이벤트는 <span class="chip warn">확인 필요</span>, 열린 지 24시간이 안 된 이벤트는 <span class="chip tint">새로 열림</span>으로 표시됩니다. 새 버전을 설치한 직후에도 열려 있는 이벤트면 「이번 이벤트」로 보입니다(v1.5.119부터, 그 전에는 잠깐 「이벤트 종료」로 잘못 보였음).</li>
+            <li>카드를 펼치면 <b>요란 비서가 하는 일</b> 네 줄이 나옵니다: 무료 보상(자동) · 미니게임·도전(자동) · 아이템 사용(모든 이벤트 공통 설정) · 뽑기(켠 경우만).</li>
+            <li>그 아래 그 이벤트의 설정이 있습니다. 예: 푸른 바다에 피는 꽃의 <b>제비뽑기</b>(기본 꺼짐, 뽑는 방식과 뽑을 상품 카드 6개 · 상품마다 최종 보상까지 필요한 티켓, <a href="features.html#bluesea">자세히</a>).</li>
+            <li><b>예약 기능 줄</b>: 식신 파견 · 지혜 대결 퍼즐 대전 · 카드 게임 · 연회 참가는 그 이벤트 카드에서, 각력 단련 참가권 모두 사용은 각력 단련 카드에서 켜고 끕니다. <kbd>자세한 설정</kbd>을 누르면 지금까지의 설정 화면이 열립니다.</li>
           </ul>
-        </div>
-        <figure class="shot"><img loading="lazy" src="img/screen-events.webp" width="2560" height="1600" alt="이벤트 화면"></figure>
-      </div>
+        </li>
+        <li><b>다음 주</b>는 확실한 것만 보여 줍니다: 이어지는 이벤트, 7일마다 열리는 주간 카드·연속 구매의 새 회차 예상, 한정 보상 다음 차례, 이벤트가 바뀌는 시각. 게임은 새 이벤트를 미리 알려 주지 않으므로, 새 이벤트가 열리면 요란 비서가 그날 확인해 넣습니다.</li>
+        <li><b>지난 이벤트</b>는 끝난 지 4주 안의 이벤트와 쉬는 예약 기능입니다(v1.5.137부터 기록). 같은 이벤트가 다시 열리면 남겨 둔 설정으로 다시 합니다.</li>
+        <li>오른쪽 <b>모든 이벤트 공통</b>(새 이벤트에도 그대로 적용):
+          <ul>
+            <li><b>이벤트 아이템 자동 사용</b>(기본 켬): 무료 보상을 받은 뒤 추첨권·모집권·패스 아이템 등을 씁니다. 끄면 무료 보상만 받습니다.</li>
+            <li><b>추첨 · 모집</b>: 이벤트마다 몇 회까지 뽑을지. 기본 0은 뽑지 않고, 비우면 아이템을 모두 씁니다. 이미 쓰던 계정은 설정 그대로입니다.</li>
+            <li><b>새 이벤트가 열리면</b>: 무료 보상·미니게임·도전은 바로 자동, 이벤트 아이템은 위 설정대로, 뽑기는 꺼진 채로 추가, 다이아·유료 패키지·교환소는 쓰지 않습니다.</li>
+          </ul>
+        </li>
+        <li>그 아래 <b>한정 보상</b>: 이번 주와 다음 주 차례(쇼핑 → 추첨 목표 → 소환 대상)와 <kbd>한정 보상 설정</kbd>.</li>
+        <li>요란 비서가 아직 모르는 새 종류의 이벤트는 <span class="chip warn">확인 필요</span>, 열린 지 24시간이 안 된 이벤트는 <span class="chip tint">새로 열림</span>으로 표시됩니다.</li>
+      </ul>
     </section>
 
     <section class="chap" id="logs">

diff --git a/docs/index.html b/docs/index.html
@@ -88,11 +88,14 @@
           <p class="muted small" style="margin:14px 0 0">출석·임무·메일·무료 패키지·이벤트 무료 보상, 도장 연무·퀴즈·식신 난투, 다이아 위탁 농장 자동 배치, 속성 시련·특훈 도전</p>
         </div>
         <div class="group">
-          <div class="group-h"><h3>한 주씩 바뀌는 보상</h3><span class="muted small">확인 간격마다</span></div>
+          <div class="group-h"><h3>이벤트 · 한정 보상</h3><span class="muted small">이벤트 메뉴에서 한눈에</span></div>
           <div class="chips">
+            <a class="fchip" href="features.html#events"><i data-i="star"></i>이벤트 메뉴</a>
             <a class="fchip" href="features.html#tunhuo"><i data-i="crown"></i>한정 보상</a>
+            <a class="fchip" href="features.html#feast"><i data-i="cup"></i>연회 참가</a>
+            <a class="fchip" href="features.html#pzjg"><i data-i="cards"></i>카드 게임</a>
           </div>
-          <p class="muted small" style="margin:14px 0 0">매일 무료 패키지와 목표 보상, 정한 회차까지 추첨 목표·소환 대상 채우기, 쇼핑 주 다이아 상점과 마지막 날 구매권 교환</p>
+          <p class="muted small" style="margin:14px 0 0">열린 이벤트의 무료 보상·미니게임·도전 자동, 2주 일정과 이벤트 카드로 하는 일을 한눈에. 한정 보상은 목표 보상과 정한 회차까지 추첨 목표·소환 대상 채우기, 쇼핑 주 다이아 상점과 마지막 날 구매권 교환</p>
         </div>
         <div class="group">
           <div class="group-h"><h3>주기 예약</h3><span class="muted small">고른 간격마다</span></div>
@@ -103,7 +106,6 @@
             <a class="fchip" href="features.html#danxia"><i data-i="bowl"></i>자양 수프</a>
             <a class="fchip" href="features.html#mining"><i data-i="pick"></i>채굴</a>
             <a class="fchip" href="features.html#hbGet"><i data-i="pouchIn"></i>복주머니</a>
-            <a class="fchip" href="features.html#feast"><i data-i="cup"></i>연회 참가</a>
             <a class="fchip" href="features.html#jingcai"><i data-i="trend"></i>예측·BET</a>
             <a class="fchip" href="features.html#wzsj"><i data-i="hammer"></i>공방</a>
             <a class="fchip" href="features.html#ghz"><i data-i="flag"></i>유파 예선</a>
@@ -144,8 +146,8 @@
         <div class="tour-cap"><b>기능 설정</b><p>왼쪽 목록의 스위치로 바로 켜고 끄고, 누르면 오른쪽에 그 기능의 설정이 열립니다. [지금 실행]으로 바로 돌리고, [다른 계정에도 적용]으로 설정을 복사합니다.</p></div></div>
       <div data-panel-of="tour" data-panel="schedule" hidden><figure class="shot"><img loading="lazy" src="img/screen-schedule.webp" width="2560" height="1600" alt="일정표 화면"></figure>
         <div class="tour-cap"><b>일정표</b><p>이번 주 요일별 예약(매일 · 경기 · 요일 예약)과 켠 주기 예약을 한눈에. 누르면 그 기능 설정으로 갑니다.</p></div></div>
-      <div data-panel-of="tour" data-panel="events" hidden><figure class="shot"><img loading="lazy" src="img/screen-events.webp" width="2560" height="1600" alt="이벤트 화면"></figure>
-        <div class="tour-cap"><b>이벤트</b><p>지금 열린 이벤트와 남은 시간, 요란 비서가 그 무료 보상을 받는지. 요란 비서가 아직 모르는 새 이벤트는 「확인 필요」로 표시되고, 이벤트 기능에는 「이번 이벤트」·「이벤트 종료」 라벨이 붙습니다.</p></div></div>
+      <div data-panel-of="tour" data-panel="events" hidden><figure class="shot"><img loading="lazy" src="img/screen-events.webp" width="2560" height="1600" alt="이벤트 화면 — 요약과 2주 일정"></figure>
+        <div class="tour-cap"><b>이벤트</b><p>이번 주·다음 주 2주 일정과 이벤트 카드. 카드를 펼치면 요란 비서가 그 이벤트에서 하는 일(무료 보상·미니게임·도전·아이템·뽑기)과 그 이벤트의 설정·예약 기능이 있습니다. 지난 이벤트, 모든 이벤트 공통 설정과 한정 보상 차례도 여기서 봅니다.</p></div></div>
       <div data-panel-of="tour" data-panel="logs" hidden><figure class="shot"><img loading="lazy" src="img/screen-logs.webp" width="2560" height="1600" alt="기록 화면"></figure>
         <div class="tour-cap"><b>기록</b><p>오늘 실행한 것을 실행마다 한 줄(완료 · 건너뜀 · 실패와 결과)로. 누르면 전체 로그, [건너뜀·실패만]으로 거를 수 있습니다.</p></div></div>
       <div data-panel-of="tour" data-panel="accounts" hidden><figure class="shot"><img loading="lazy" src="img/screen-accounts.webp" width="2560" height="1600" alt="계정 관리 화면"></figure>

diff --git a/docs/android.html b/docs/android.html
@@ -328,7 +328,7 @@
       <h2>5. 기능 켜기</h2>
       <div class="steps-fig" data-s id="turn-on-list" data-st="기능 설정에서 쓸 기능 켜기" data-k="기능목록 스위치 뒤로">
         <div>
-          <p>처음 설치하면 <b>모든 기능이 꺼져 있습니다</b>(이미 쓰던 설정은 업데이트해도 그대로, 이벤트 기능 「지혜 대결 퍼즐 대전」만 예외로 켜짐). 아래 탭의 <b>기능 설정</b>에서 기능마다 하는 일을 보고 쓸 기능의 스위치를 켭니다. 기능 이름을 누르면 그 기능의 설정(시각·횟수·다이아 사용 등)이 열리고, <kbd>‹ 기능 목록</kbd>이나 휴대폰 <kbd>뒤로</kbd>로 목록에 돌아옵니다.</p>
+          <p>처음 설치하면 <b>모든 기능이 꺼져 있습니다</b>(이미 쓰던 설정은 업데이트해도 그대로, 이벤트 기능 「지혜 대결 퍼즐 대전」만 예외로 켜짐). 아래 탭의 <b>기능 설정</b>에서 기능마다 하는 일을 보고 쓸 기능의 스위치를 켭니다. 기능 이름을 누르면 그 기능의 설정(시각·횟수·다이아 사용 등)이 열리고, <kbd>‹ 기능 목록</kbd>이나 휴대폰 <kbd>뒤로</kbd>로 목록에 돌아옵니다. 이벤트 기능(식신 파견·지혜 대결 퍼즐 대전·카드 게임·연회 참가·각력 단련 참가권)은 v1.5.137부터 아래 탭 <b>이벤트</b>의 이벤트 카드에서 켭니다(<a href="guide.html#events">이벤트 메뉴</a>).</p>
           <p>무엇을 켤지 모르겠으면 PC 설명서의 <a href="guide.html#first">처음 설정 추천</a>을 보세요. 기능마다 하는 일은 <a href="features.html">기능 안내</a>에 있습니다.</p>
           <p class="muted small">설정은 바로 저장됩니다. 기능 설정 아래 <kbd>다른 계정에도 적용</kbd>으로 같은 설정을 다른 게임 계정에 복사할 수 있습니다.</p>
         </div>
@@ -436,7 +436,7 @@
       <div class="phone-row" style="justify-content:flex-start;flex-wrap:wrap;margin:18px 0 6px">
         <figure class="phone"><div class="ph"><img loading="lazy" src="img/phone-home.webp" width="780" height="1688" alt="오늘 화면"></div><figcaption>오늘 — 계정별 상태·다음 예약</figcaption></figure>
         <figure class="phone"><div class="ph"><img loading="lazy" src="img/phone-schedule.webp" width="780" height="1688" alt="일정표 화면"></div><figcaption>일정표 — 하루씩 세로로</figcaption></figure>
-        <figure class="phone"><div class="ph"><img loading="lazy" src="img/phone-events.webp" width="780" height="1688" alt="이벤트 화면"></div><figcaption>이벤트 — 열린 이벤트·횟수</figcaption></figure>
+        <figure class="phone"><div class="ph"><img loading="lazy" src="img/phone-events.webp" width="780" height="1688" alt="이벤트 화면"></div><figcaption>이벤트 — 2주 일정·이벤트 카드</figcaption></figure>
         <figure class="phone"><div class="ph"><img loading="lazy" src="img/phone-logs.webp" width="780" height="1688" alt="기록 화면"></div><figcaption>기록 — 오늘 한 일</figcaption></figure>
         <figure class="phone"><div class="ph"><img loading="lazy" src="img/phone-home-dark.webp" width="780" height="1688" alt="다크 모드의 오늘 화면"></div><figcaption>다크 모드</figcaption></figure>
       </div>
